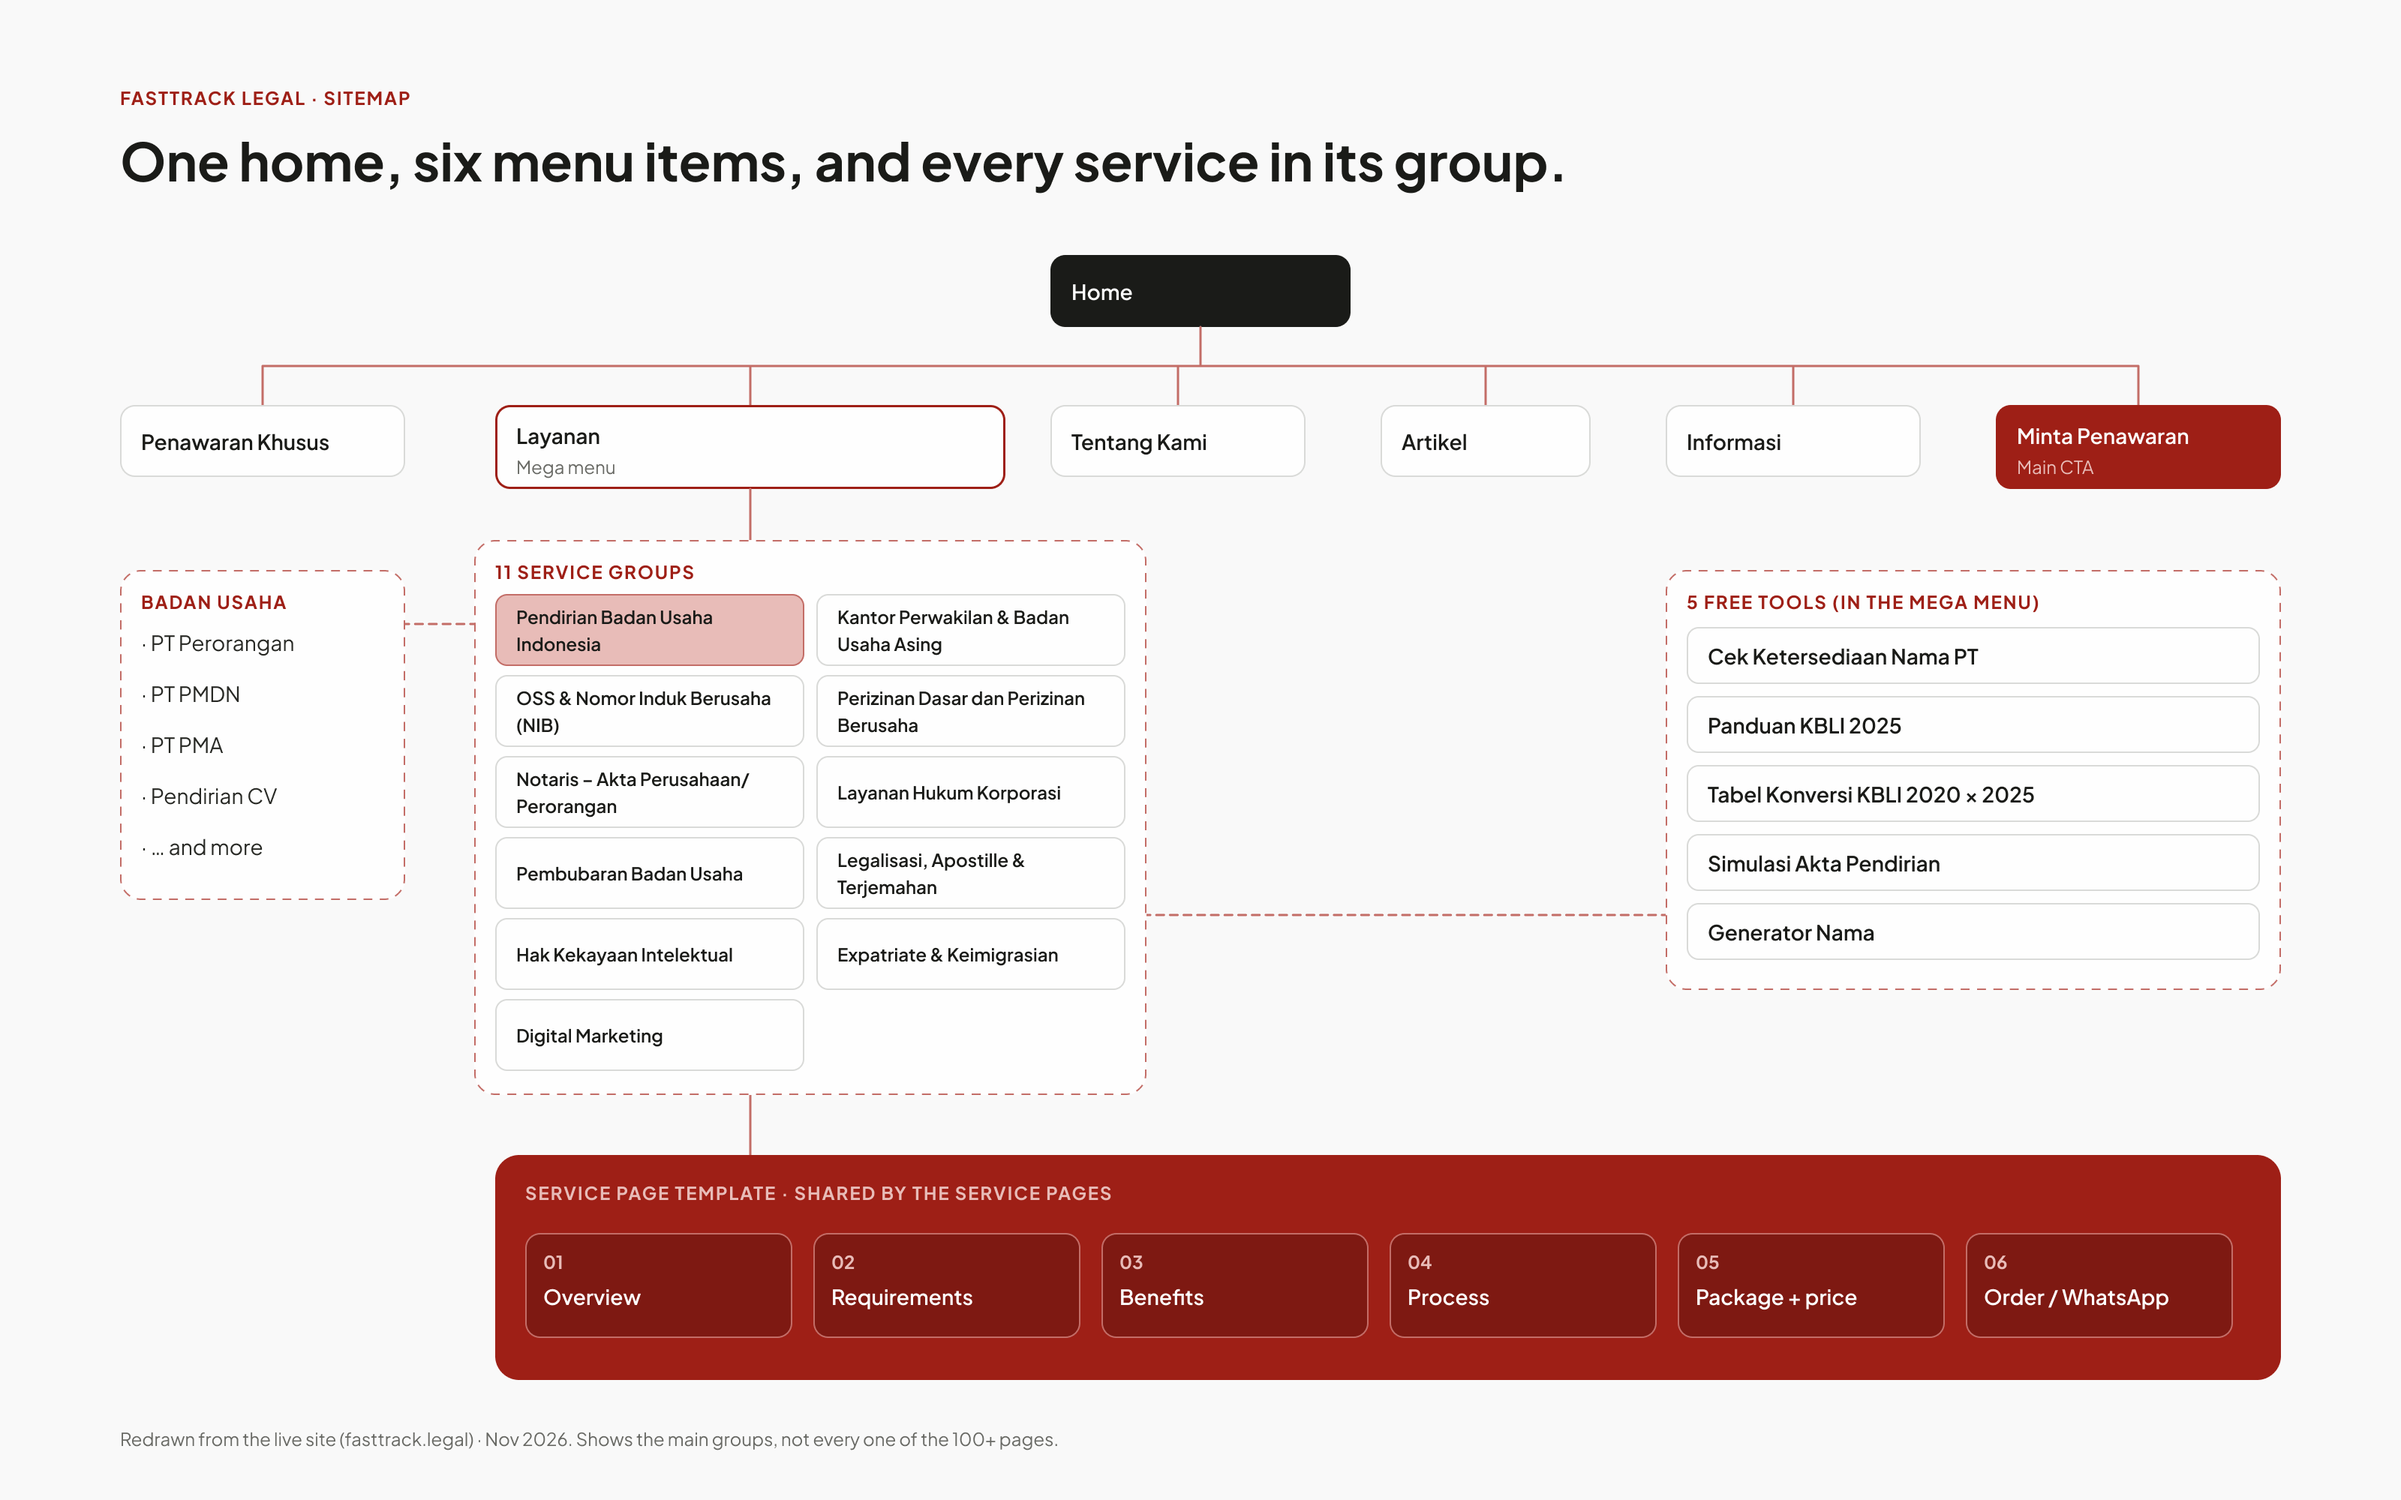
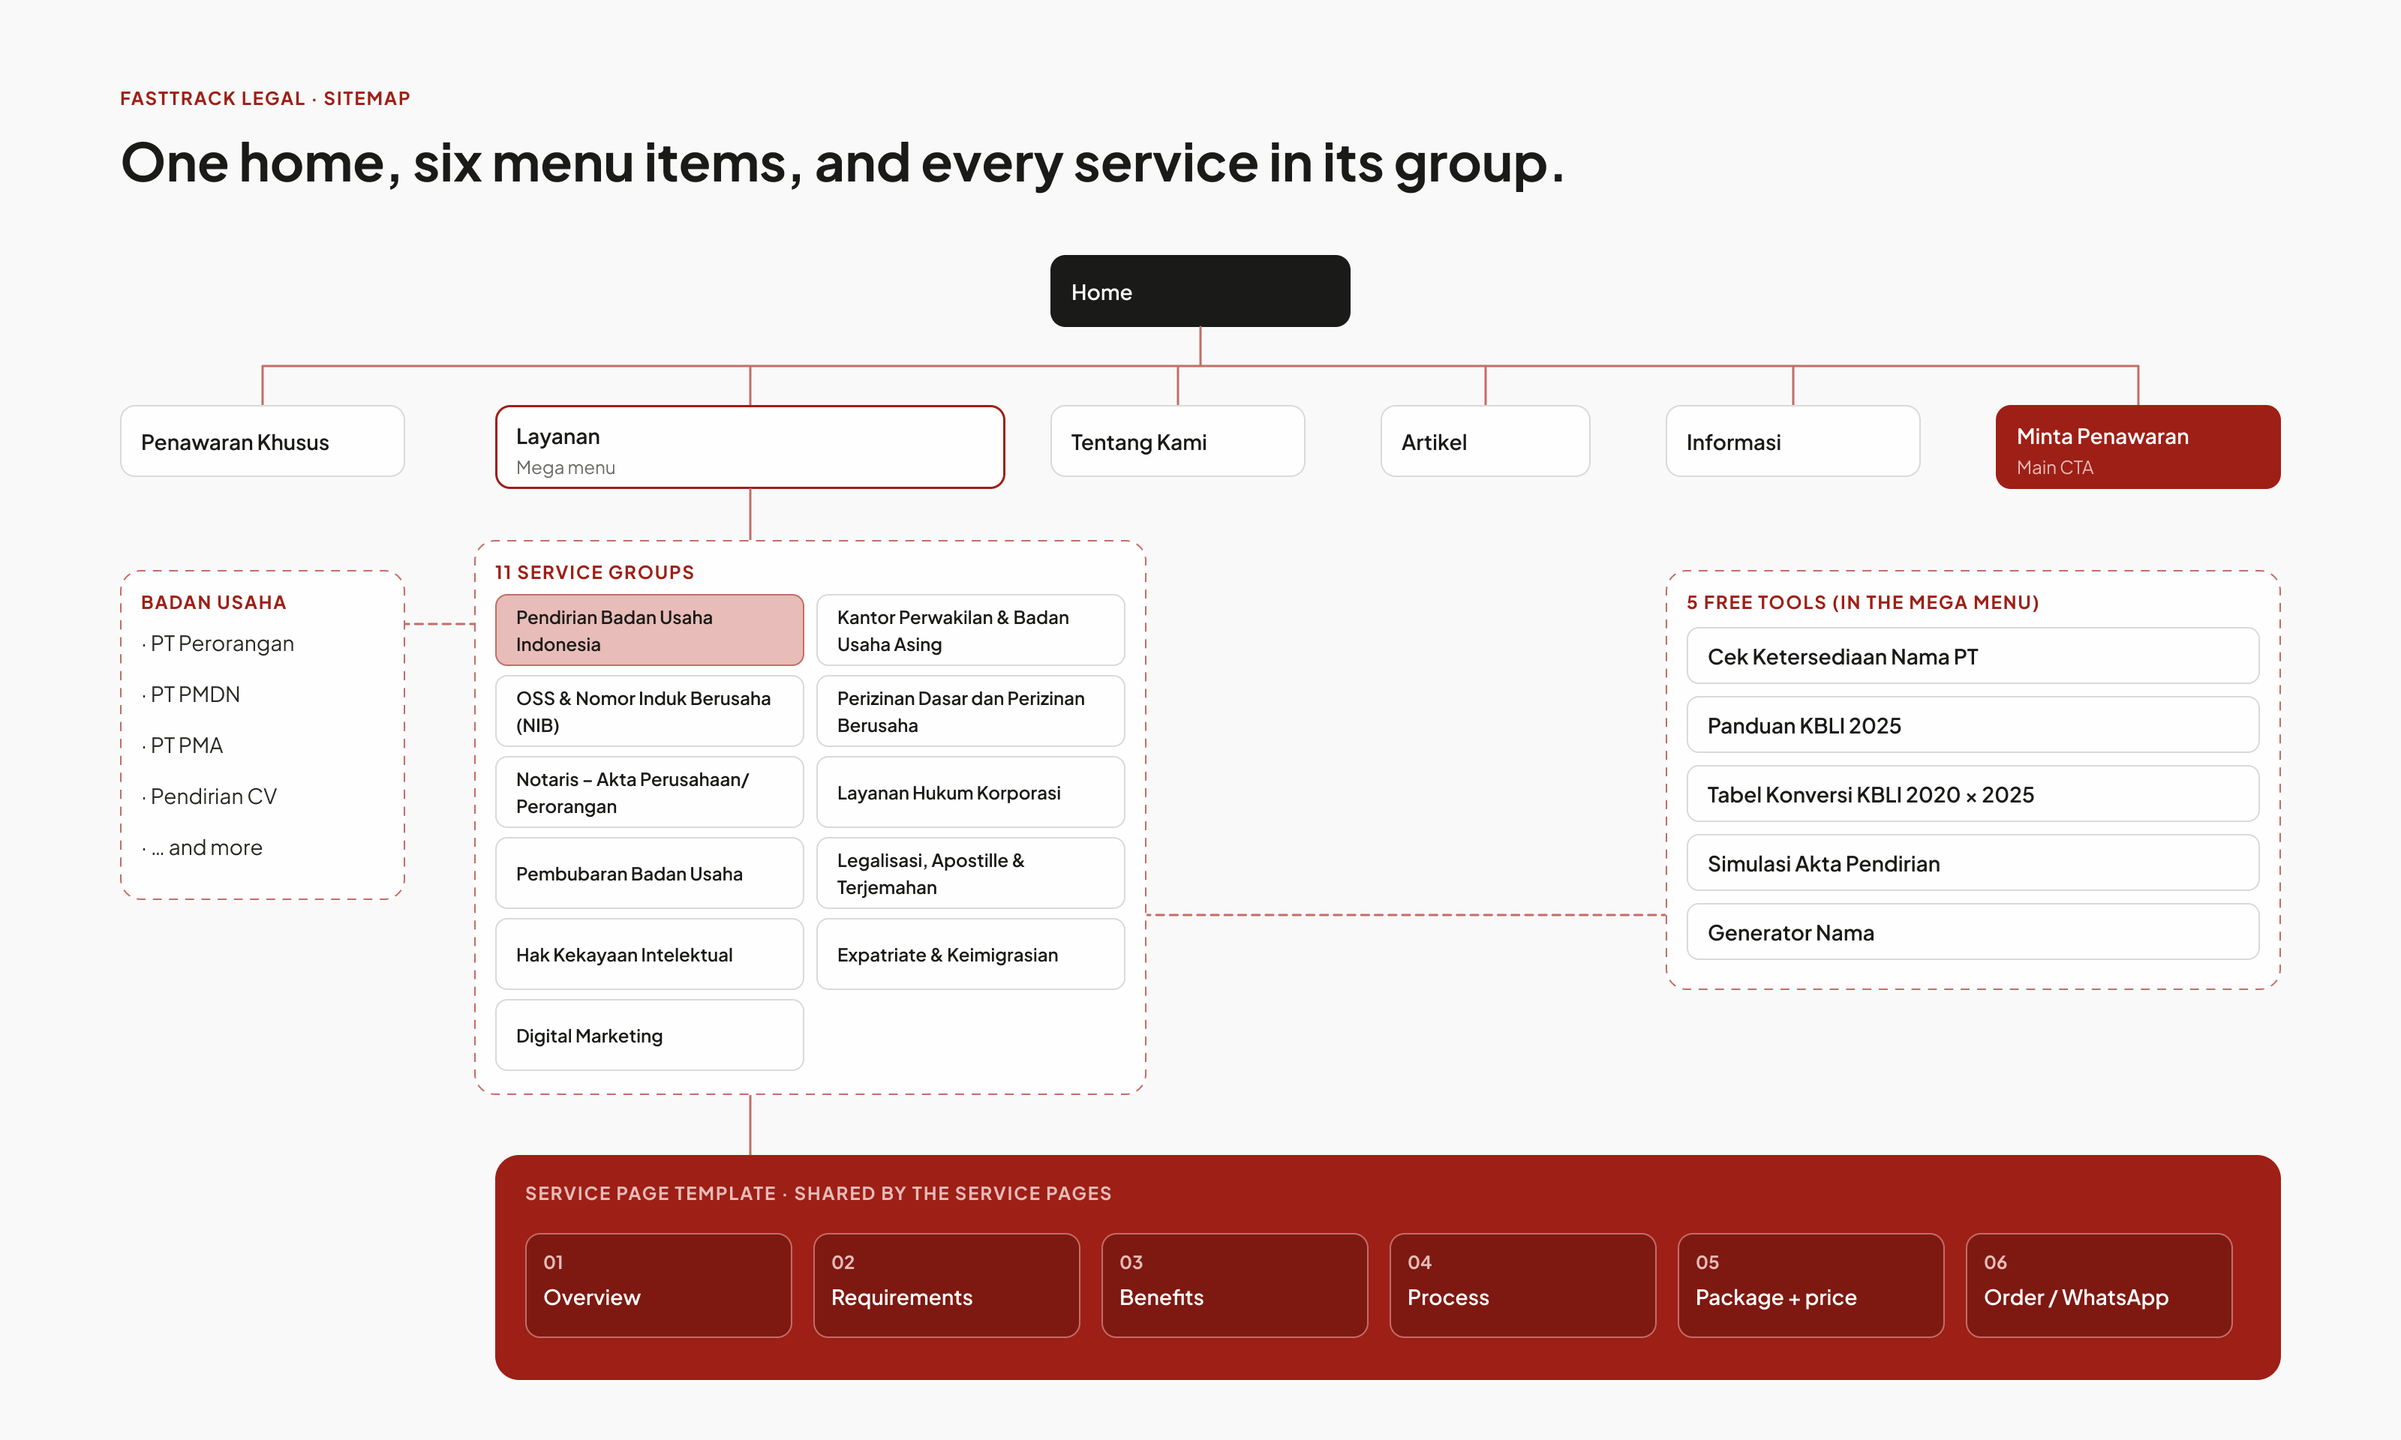
FASTTRACK Legal: show the structure diagrams in Solution, without the redrawn label

diff --git a/src/data/projects.js b/src/data/projects.js
@@ -64,13 +64,17 @@ export const projects = [
       ['Check with the legal team.', 'I went through service requirements, terms and business rules with the legal team, and turned them into page content and interface patterns.'],
       ['Stay close to the developers.', 'During the build, I worked with the developers so the website matched the Figma design and stayed realistic to build.'],
     ],
-    processImages: [
-      { src: 'fasttrack/sitemap.png', alt: 'Sitemap: Home, six menu items, 11 service groups, 5 tools and the shared service page template', caption: 'The site structure: six menu items, 11 service groups and 5 tools. Redrawn for this case study from the live site.' },
-      { src: 'fasttrack/user-flow.png', alt: 'User flow from landing on the site to ordering a service, with a side path through the free tools', caption: 'The main path, from "which service?" to "how do I start?". Redrawn for this case study.' },
-      { src: 'fasttrack/wireframe.png', alt: 'Low-fidelity wireframe of a service page on desktop and mobile', caption: 'A service page as a lo-fi wireframe: key facts on the left, the next step on the right. Redrawn for this case study from the final layout.' },
-    ],
+    // No process images: the sitemap, user flow and wireframe were drawn after the project, from the live site,
+    // so they explain the final structure in Solution and are not presented as original process files.
+    processImages: [],
     solutionHead: 'One navigation, readable pages, and tools for the first questions.',
     solution: [
+      { t: 'How the final site is structured.', b: 'Six menu items, a mega menu with 11 service groups and 5 tools, and one page template shared by the service pages.',
+        imgs: [
+          { src: 'fasttrack/sitemap.png', alt: 'Sitemap: Home, six menu items, 11 service groups, 5 tools and the shared service page template', caption: 'The site structure: six menu items, 11 service groups and 5 tools.' },
+          { src: 'fasttrack/user-flow.png', alt: 'User flow from landing on the site to ordering a service, with a side path through the free tools', caption: 'The main path, from "which service?" to "how do I start?".' },
+          { src: 'fasttrack/wireframe.png', alt: 'Low-fidelity wireframe of a service page on desktop and mobile', caption: 'A service page in lo-fi: key facts on the left, the next step on the right.' },
+        ] },
       { t: 'One navigation for 25 services.', b: 'The services are grouped into 11 clear groups on the live site, so people can find the type of service they need.',
         chips: ['Pendirian Badan Usaha Indonesia', 'Kantor Perwakilan & Badan Usaha Asing', 'OSS & NIB', 'Perizinan Dasar dan Perizinan Berusaha', 'Notaris – Akta', 'Layanan Hukum Korporasi', 'Pembubaran Badan Usaha', 'Legalisasi, Apostille & Terjemahan', 'Hak Kekayaan Intelektual', 'Expatriate & Keimigrasian', 'Digital Marketing'],
         img: { src: 'fasttrack/navigation.jpg', alt: 'The Layanan mega menu on the live site, with 11 service groups and 5 tools', caption: 'The Layanan mega menu on the live site: 11 service groups and the 5 tools in one panel.' } },
